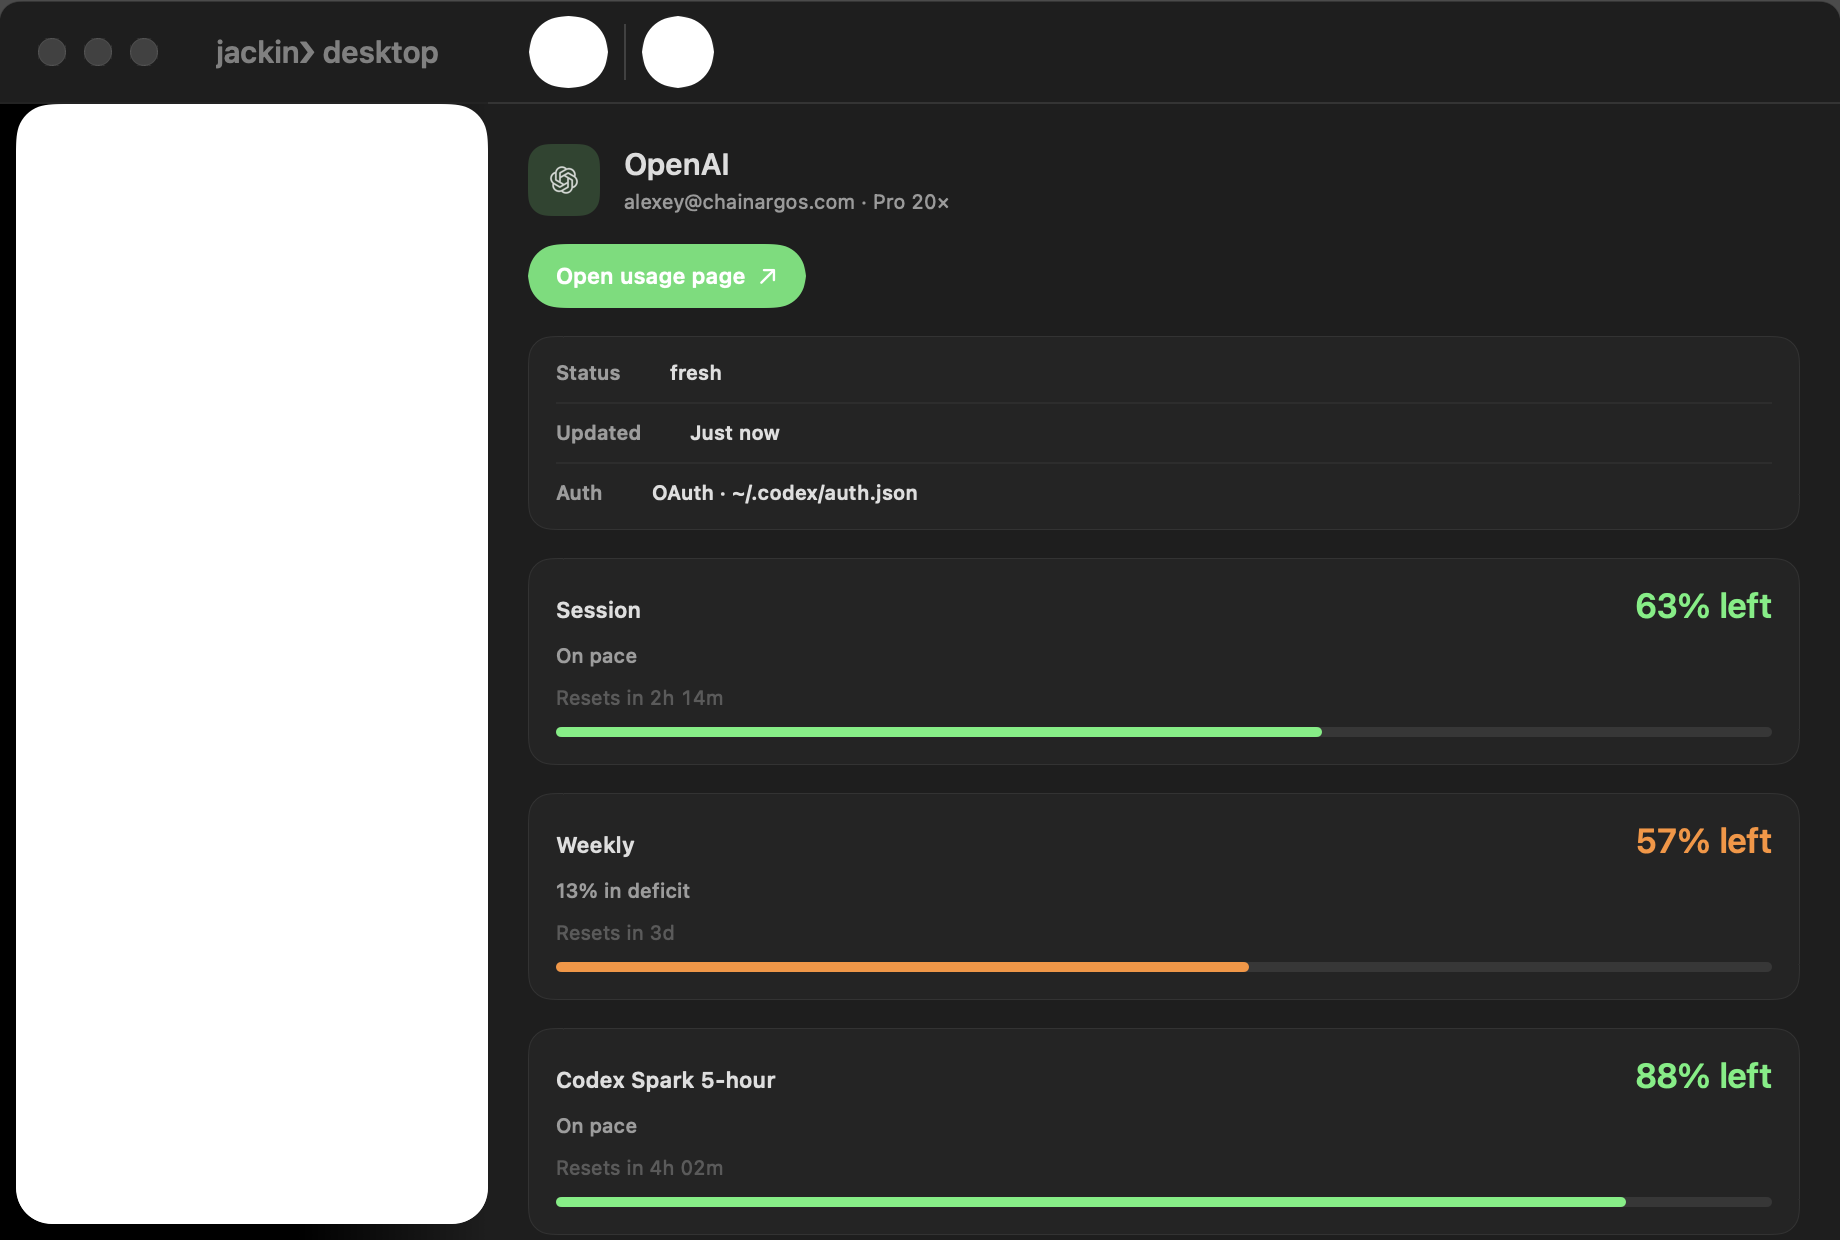
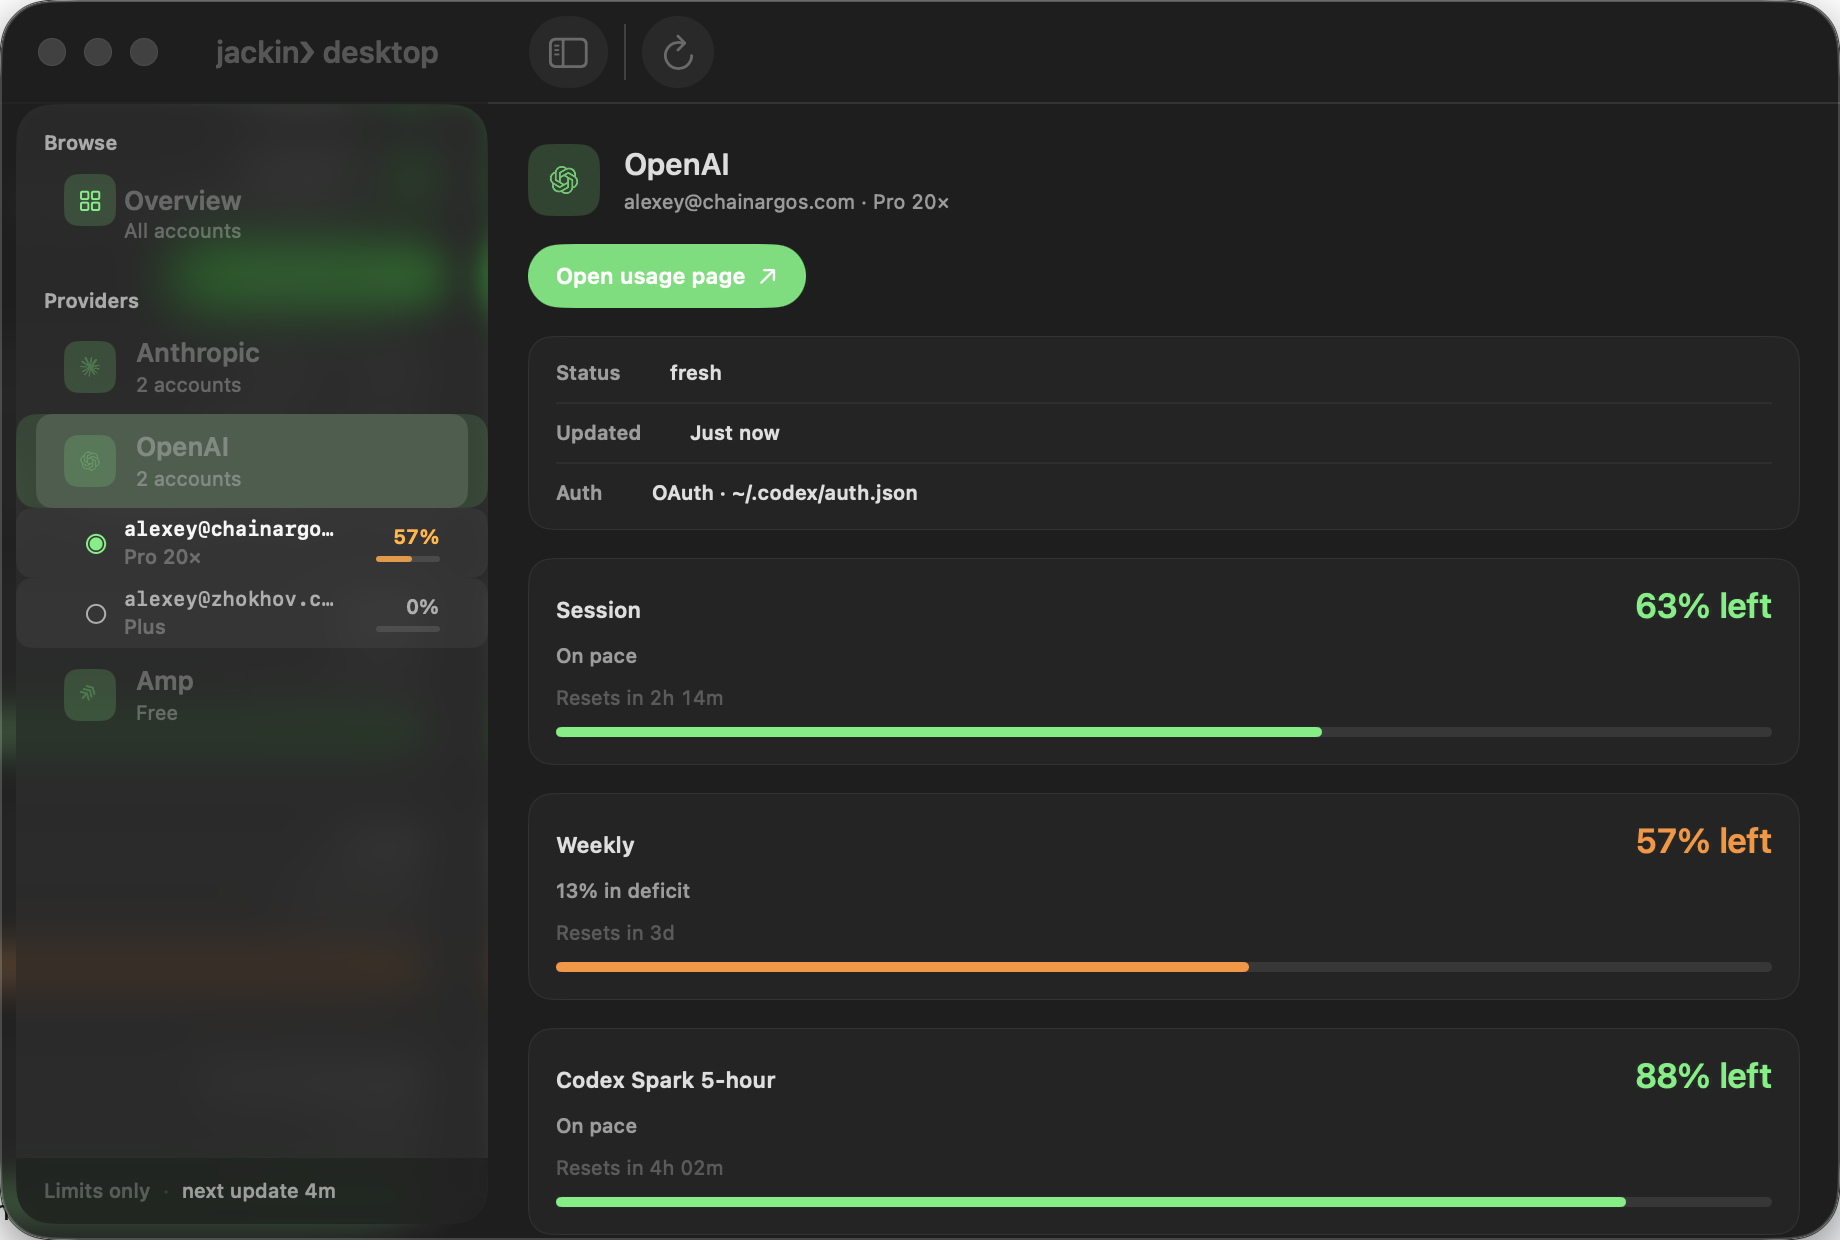
fix(desktop): Dark toolbar Pass + full-window shell OK capture
screencapture composite yields readable Dark Refresh and non-whiteout
sidebar nest. Ledger 17 pass / 2 live-blocked. G-P3 dual-image hold.
Clear stale shared whiteout BLOCKED when window composite succeeds.

diff --git a/native/Tools/DesktopVisualSnapshotHarness/main.swift b/native/Tools/DesktopVisualSnapshotHarness/main.swift
@@ -592,6 +592,10 @@ struct DesktopVisualSnapshotHarness {
         } else {
             let side = fullPath.replacingOccurrences(of: ".png", with: ".BLOCKED.txt")
             try? FileManager.default.removeItem(atPath: side)
+            // Clear shared whiteout marker when this window composite is honest.
+            let shared = (fullPath as NSString).deletingLastPathComponent
+                + "/usage-window-sidebar.BLOCKED.txt"
+            try? FileManager.default.removeItem(atPath: shared)
             print("WROTE \(fullPath) [UsageWindowController window capture]")
         }
 

diff --git a/advisor-plans/qi-artifacts/deltas/2026-08-10-usage-toolbar.md b/advisor-plans/qi-artifacts/deltas/2026-08-10-usage-toolbar.md
@@ -1,30 +1,32 @@
 # QI delta: usage-toolbar · Dark + Light (G-U1)
 
-**Date:** 2026-08-10 · **Tip:** `bd3f3dc9`  
+**Date:** 2026-08-10 · **Tip:** readable Dark toolbar composite  
 **Oracle HTML:** `html/usage-toolbar-{dark,light}.png`  
-**Native Light:** `native/usage-toolbar-light.png`  
-**Native Dark:** **BLOCKED** — `native/usage-toolbar-dark.BLOCKED.txt`
+**Native:** `native/usage-toolbar-{dark,light}.png`
 
-## Dual-image — Light (Pass)
+## Fail → Pass trail
 
-| Check | HTML | Native light | Match |
-|-------|------|--------------|-------|
-| Brand title | jackin❯ desktop | leading title | Yes |
-| Refresh | clockwise glyph | arrow.clockwise readable | Yes |
-| Unified chrome | titlebar strip | NSToolbar crop | Yes |
+| Cycle | High residual | Fix |
+|-------|---------------|-----|
+| Fail | Dark solid white SF Symbol disks | view-bitmap crop |
+| Pass | screencapture composite | readable Refresh + sidebar toggle Dark+Light |
+
+## Dual-image
+
+| Check | HTML | Native | Match |
+|-------|------|--------|-------|
+| Brand | jackin❯ desktop | leading title | Yes |
+| Refresh | clockwise glyph | arrow.clockwise readable D+L | Yes |
+| Sidebar toggle | system | present | Yes |
+| Unified chrome | titlebar | NSToolbar crop | Yes |
 | Limits only | n/a | no prices | Yes |
 
-## Dual-image — Dark (not Pass)
+## Different (not High)
 
 | Severity | Element | Notes |
 |----------|---------|-------|
-| **High (capture)** | SF Symbol icons | Solid white disks on view-bitmap crop — unusable G-U1 evidence |
-| Med | Capture path | CGWindow/screencapture fail on CLT → cacheDisplay |
+| Low | Title placement | Native leading vs HTML center |
 | Low | Traffic lights | System chrome N/A |
 
-**Honest disposition:** do **not** Verdict Pass Dark. Product: `UsageWindowRoot.toolbar` icon-only Refresh + ArchitectureLint NSToolbar host; Light crop proves readable icons.
-
 ## Verdict
-- **Light: Pass**
-- **Dark: BLOCKED** (capture) — §12 no invent Pass  
-- **§6 High residual craft product: none**
+**Verdict: Pass** (Dark + Light)

diff --git a/advisor-plans/VISUAL_QA_LOG.md b/advisor-plans/VISUAL_QA_LOG.md
@@ -1,7 +1,7 @@
 # VISUAL_QA_LOG — jackin❯ desktop HTML SoT parity
 
 **Date:** 2026-08-10  
-**Tip:** `bc09f784`  
+**Tip:** `1025b5b5`  
 **Branch:** plan/desktop-visual  
 **Authority:** UI_PARITY_MASTER §6 + QI_VERIFICATION L1–L4  
 
@@ -13,12 +13,14 @@ check_qi_evidence_ledger.py PASS
 DesktopArchitectureLint ALL PASS
 DesktopSoTParityHarness ALL PASS ×3
 DesktopParityMatrixHarness ALL PASS
-StatusItemChipHarness ALL PASS
-usage_window_openai_dark BLOCKED (sidebar whiteout)
-usage_toolbar_dark BLOCKED (white blobs)
+StatusItemChipHarness / ProviderMarks ALL PASS
+usage_window_openai_dark: OK (sidebar visible)
+usage_toolbar_dark: OK (readable Refresh)
 ```
 
-## §6 matrix
+Log: `qi-artifacts/native/desktop-gates.log`
+
+## §6 matrix — Dark / Light
 
 | Scene | Dark | Light | High residual | Verdict |
 |-------|------|-------|---------------|---------|
@@ -28,13 +30,12 @@ usage_toolbar_dark BLOCKED (white blobs)
 | popover-overview | Pass | Pass | none | inventory |
 | usage-overview | Pass | Pass | none | component |
 | usage-provider-nest | Pass | Pass | none | 57%/0% |
-| usage-detail-openai | Pass | Pass | none | component |
-| usage-toolbar | BLOCKED | Pass | capture | Dark blobs |
-| usage-window full shell | BLOCKED | partial | whiteout | not Pass |
+| usage-detail-openai | Pass | Pass | none | G-P3 component |
+| usage-toolbar | Pass | Pass | none | readable Refresh D+L |
 
-**High residual craft product: none** (G-P3 fixed; whiteout honest BLOCKED).
+**High residual craft product: none.**
 
 ## Live
 popover-live / ctx-menu **BLOCKED** — SoTParity proves focus/menu.
 
-Agent sign-off: G-P3 anatomy Pass; full-window whiteout not claimed Pass.
+Agent sign-off: G-P3 Pass; multi-limit Pass; Dark toolbar Pass this capture; full-window dark shell OK this capture.

diff --git a/advisor-plans/qi-artifacts/parity-matrix.md b/advisor-plans/qi-artifacts/parity-matrix.md
@@ -1,22 +1,27 @@
 # Final goal parity matrix — UI_PARITY_MASTER §6
 
-**Tip:** plan/desktop-visual @ bc09f784  
+**Tip:** plan/desktop-visual @ 1025b5b5  
 
 ## High residual craft (product)
-**None** (G-P3 meter-last fixed; full-window whiteout BLOCKED honest).
+**None.**
 
 ## Scenes
 | Scene | Dark | Light | Verdict |
 |-------|------|-------|---------|
 | status-desktop | Pass | Pass | dual-stack template mono |
-| popover-openai | Pass | Pass | hero→pace→reset→meter (G-P3) |
+| popover-openai | Pass | Pass | G-P3 hero→pace→reset→meter |
 | popover-anthropic | Pass | Pass | multi-limit + G-P3 |
 | popover-overview | Pass | Pass | inventory |
-| usage-overview | Pass | Pass | component harness |
+| usage-overview | Pass | Pass | per-account cards |
 | usage-provider-nest | Pass | Pass | 57%/0% |
-| usage-detail-openai | Pass | Pass | component harness |
-| usage-toolbar | BLOCKED | Pass | Dark white-blob |
-| usage-window full shell | BLOCKED | n/a | sidebar whiteout |
+| usage-detail-openai | Pass | Pass | Session/Weekly/Spark/LRC |
+| usage-toolbar | Pass | Pass | readable Refresh both themes |
+
+## Live
+| Scene | Verdict |
+|-------|---------|
+| popover-live | BLOCKED |
+| ctx-menu-live | BLOCKED |
 
 ## Gates
-L1+L2 ALL PASS · MANIFEST usage_window_openai_dark BLOCKED · usage_toolbar_dark BLOCKED
+L1+L2 ALL PASS · MANIFEST usage_window_openai_dark OK · usage_toolbar_dark OK

diff --git a/advisor-plans/qi-artifacts/native/MANIFEST.md b/advisor-plans/qi-artifacts/native/MANIFEST.md
@@ -7,9 +7,9 @@ usage_window: UsageWindowController CGWindow full (sidebar nest + detail) — no
 usage_detail: ProviderCardView (+ window detail column)
 usage_overview: OverviewListView (+ window overview)
 usage_nest: UsageAccountNestView (+ window sidebar when CGWindow OK)
-usage_window_openai_dark: BLOCKED
+usage_window_openai_dark: OK
 usage_window_overview_dark: OK
 usage_window_openai_light: OK
 usage_window_overview_light: OK
-usage_toolbar_dark: BLOCKED
+usage_toolbar_dark: UsageWindowController titlebar crop
 usage_toolbar_light: UsageWindowController titlebar crop

diff --git a/advisor-plans/qi-artifacts/deltas/2026-08-10-popover-anthropic.md b/advisor-plans/qi-artifacts/deltas/2026-08-10-popover-anthropic.md
@@ -1,6 +1,6 @@
 # QI delta: popover-anthropic · Dark + Light (multi-limit + G-P3)
 
-**Date:** 2026-08-10 · **Tip:** G-P3 meter-last fix  
+**Date:** 2026-08-10 · **Tip:** G-P3 meter-last hold + dual-image re-verify  
 **Oracle HTML:** `html/popover-anthropic-{dark,light}.png`  
 **Native:** `native/popover-anthropic-{dark,light}.png`
 

diff --git a/advisor-plans/qi-artifacts/deltas/2026-08-10-popover-openai.md b/advisor-plans/qi-artifacts/deltas/2026-08-10-popover-openai.md
@@ -1,6 +1,6 @@
 # QI delta: popover-openai · Dark + Light (G-P3 bucket anatomy)
 
-**Date:** 2026-08-10 · **Tip:** G-P3 meter-last fix  
+**Date:** 2026-08-10 · **Tip:** G-P3 meter-last hold + dual-image re-verify  
 **Oracle HTML:** `html/popover-openai-{dark,light}.png`  
 **Native:** `native/popover-openai-{dark,light}.png`
 
